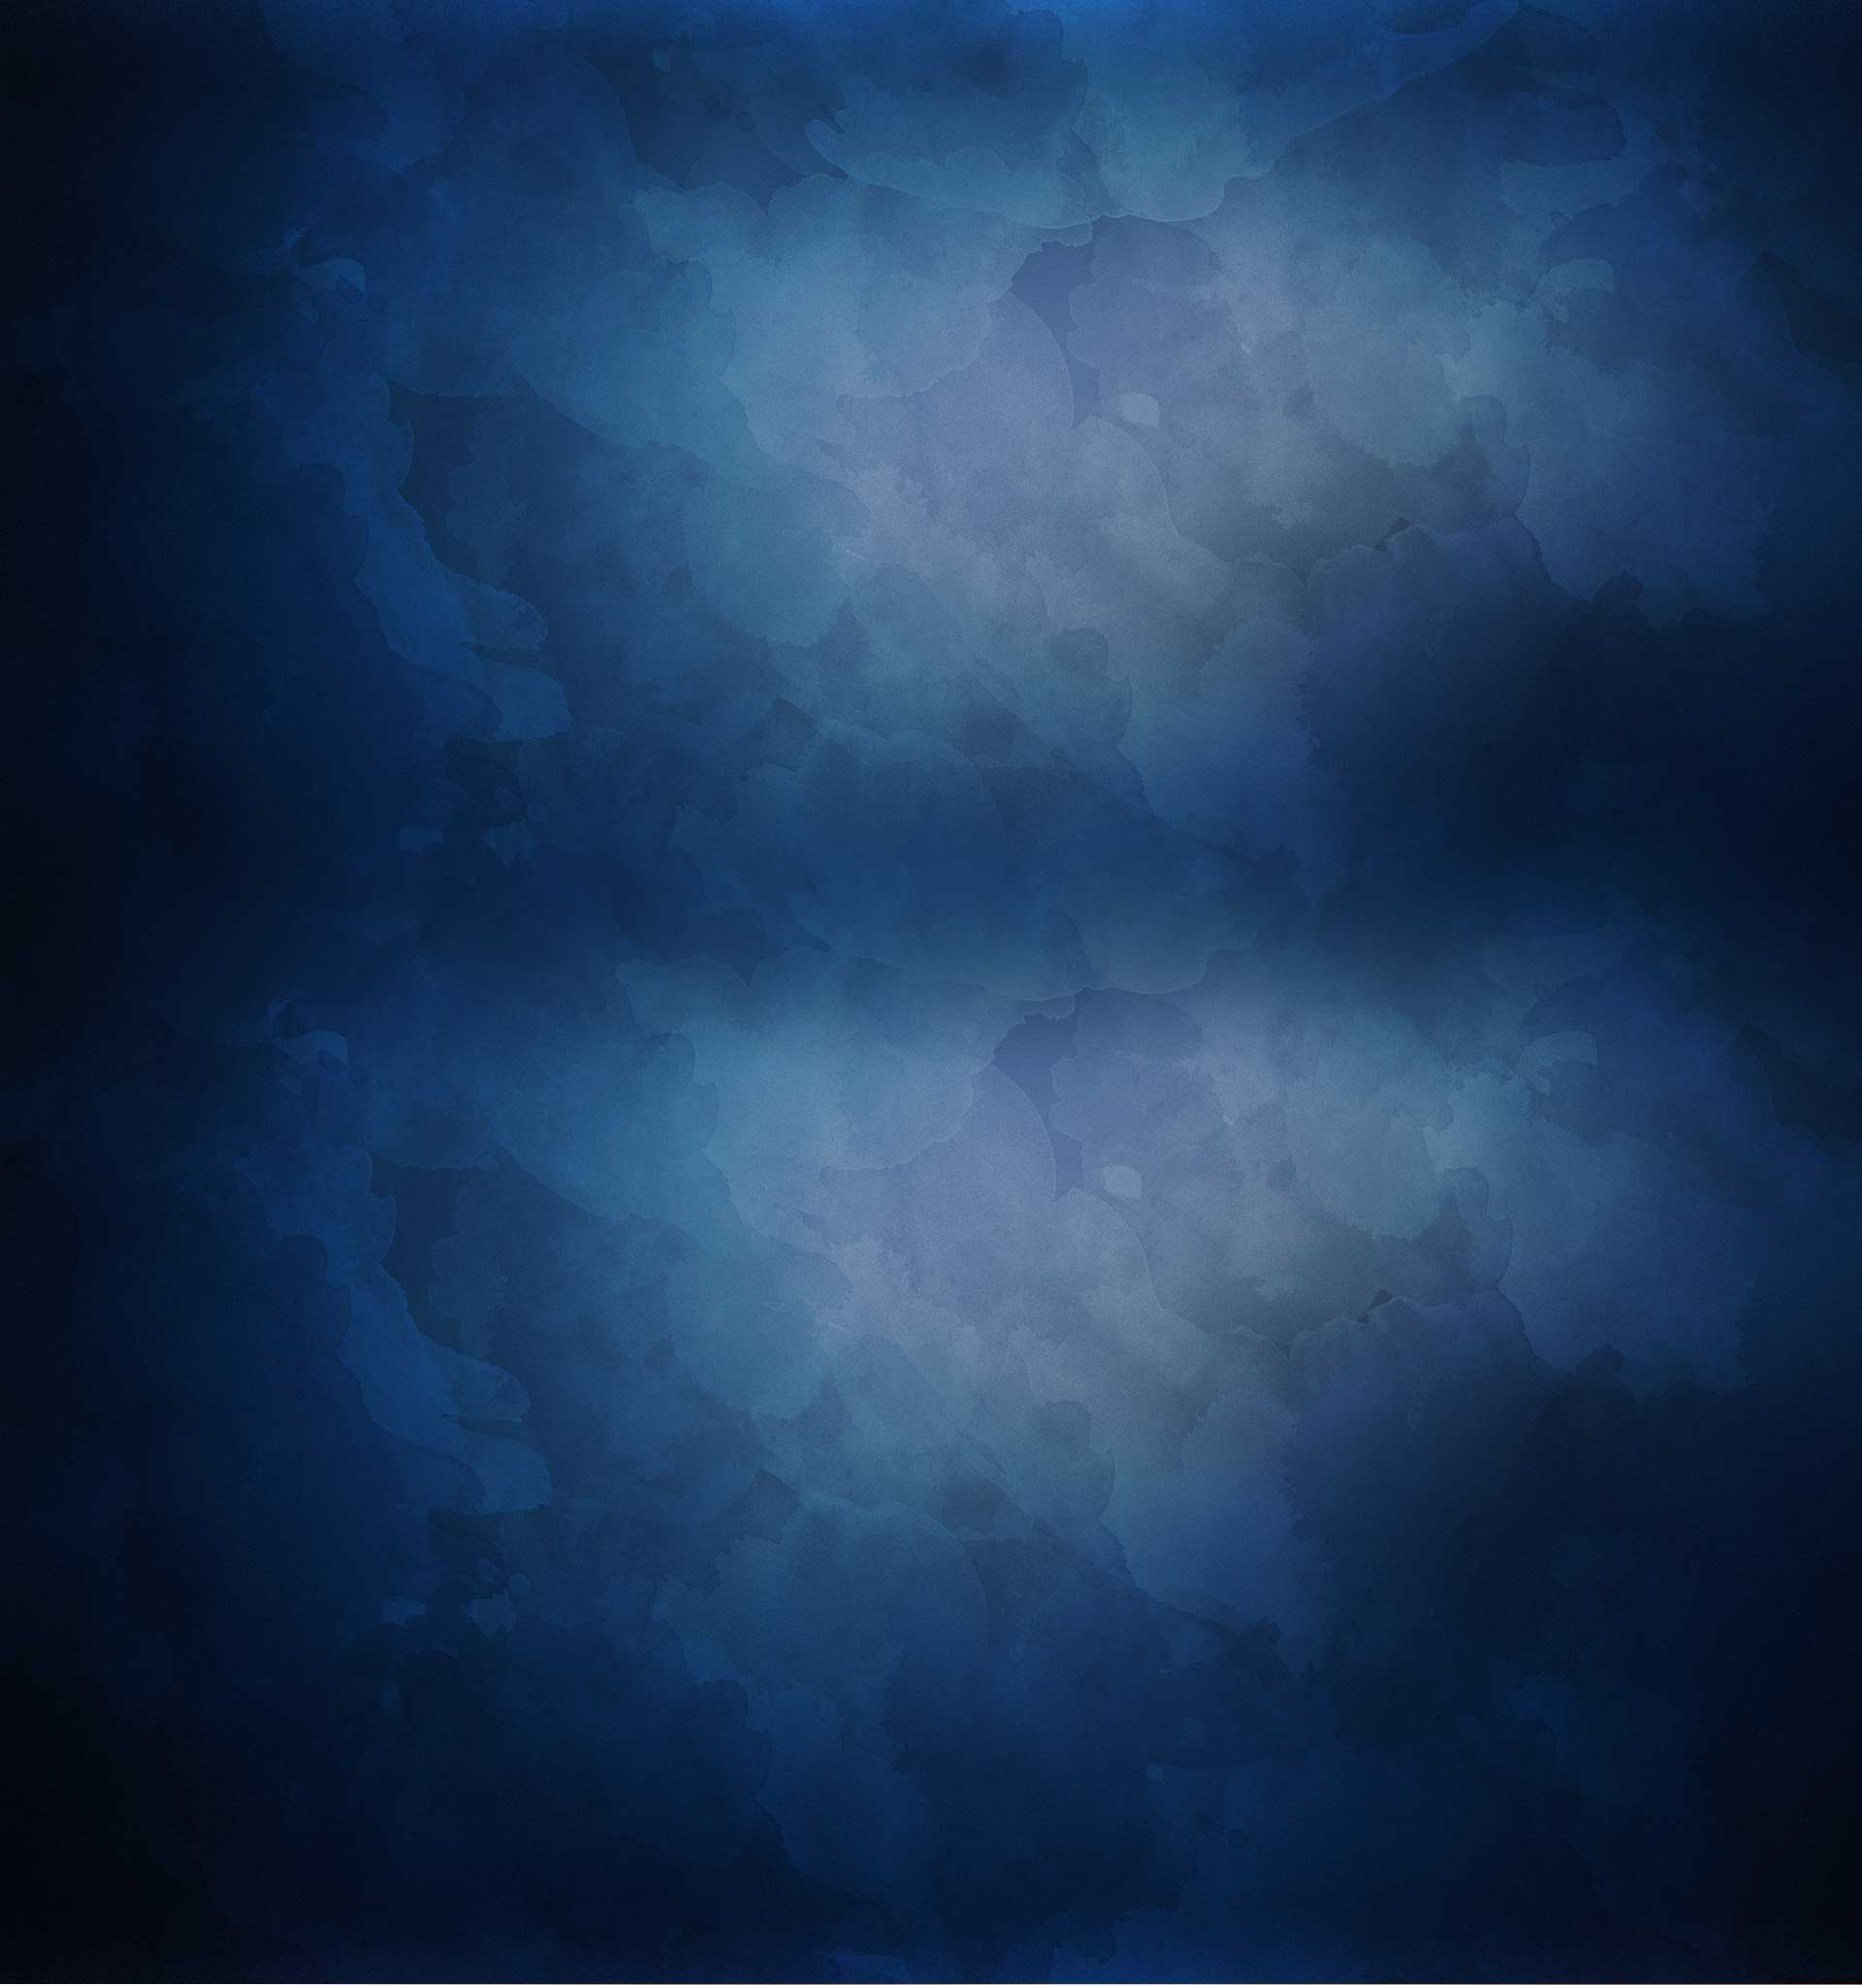
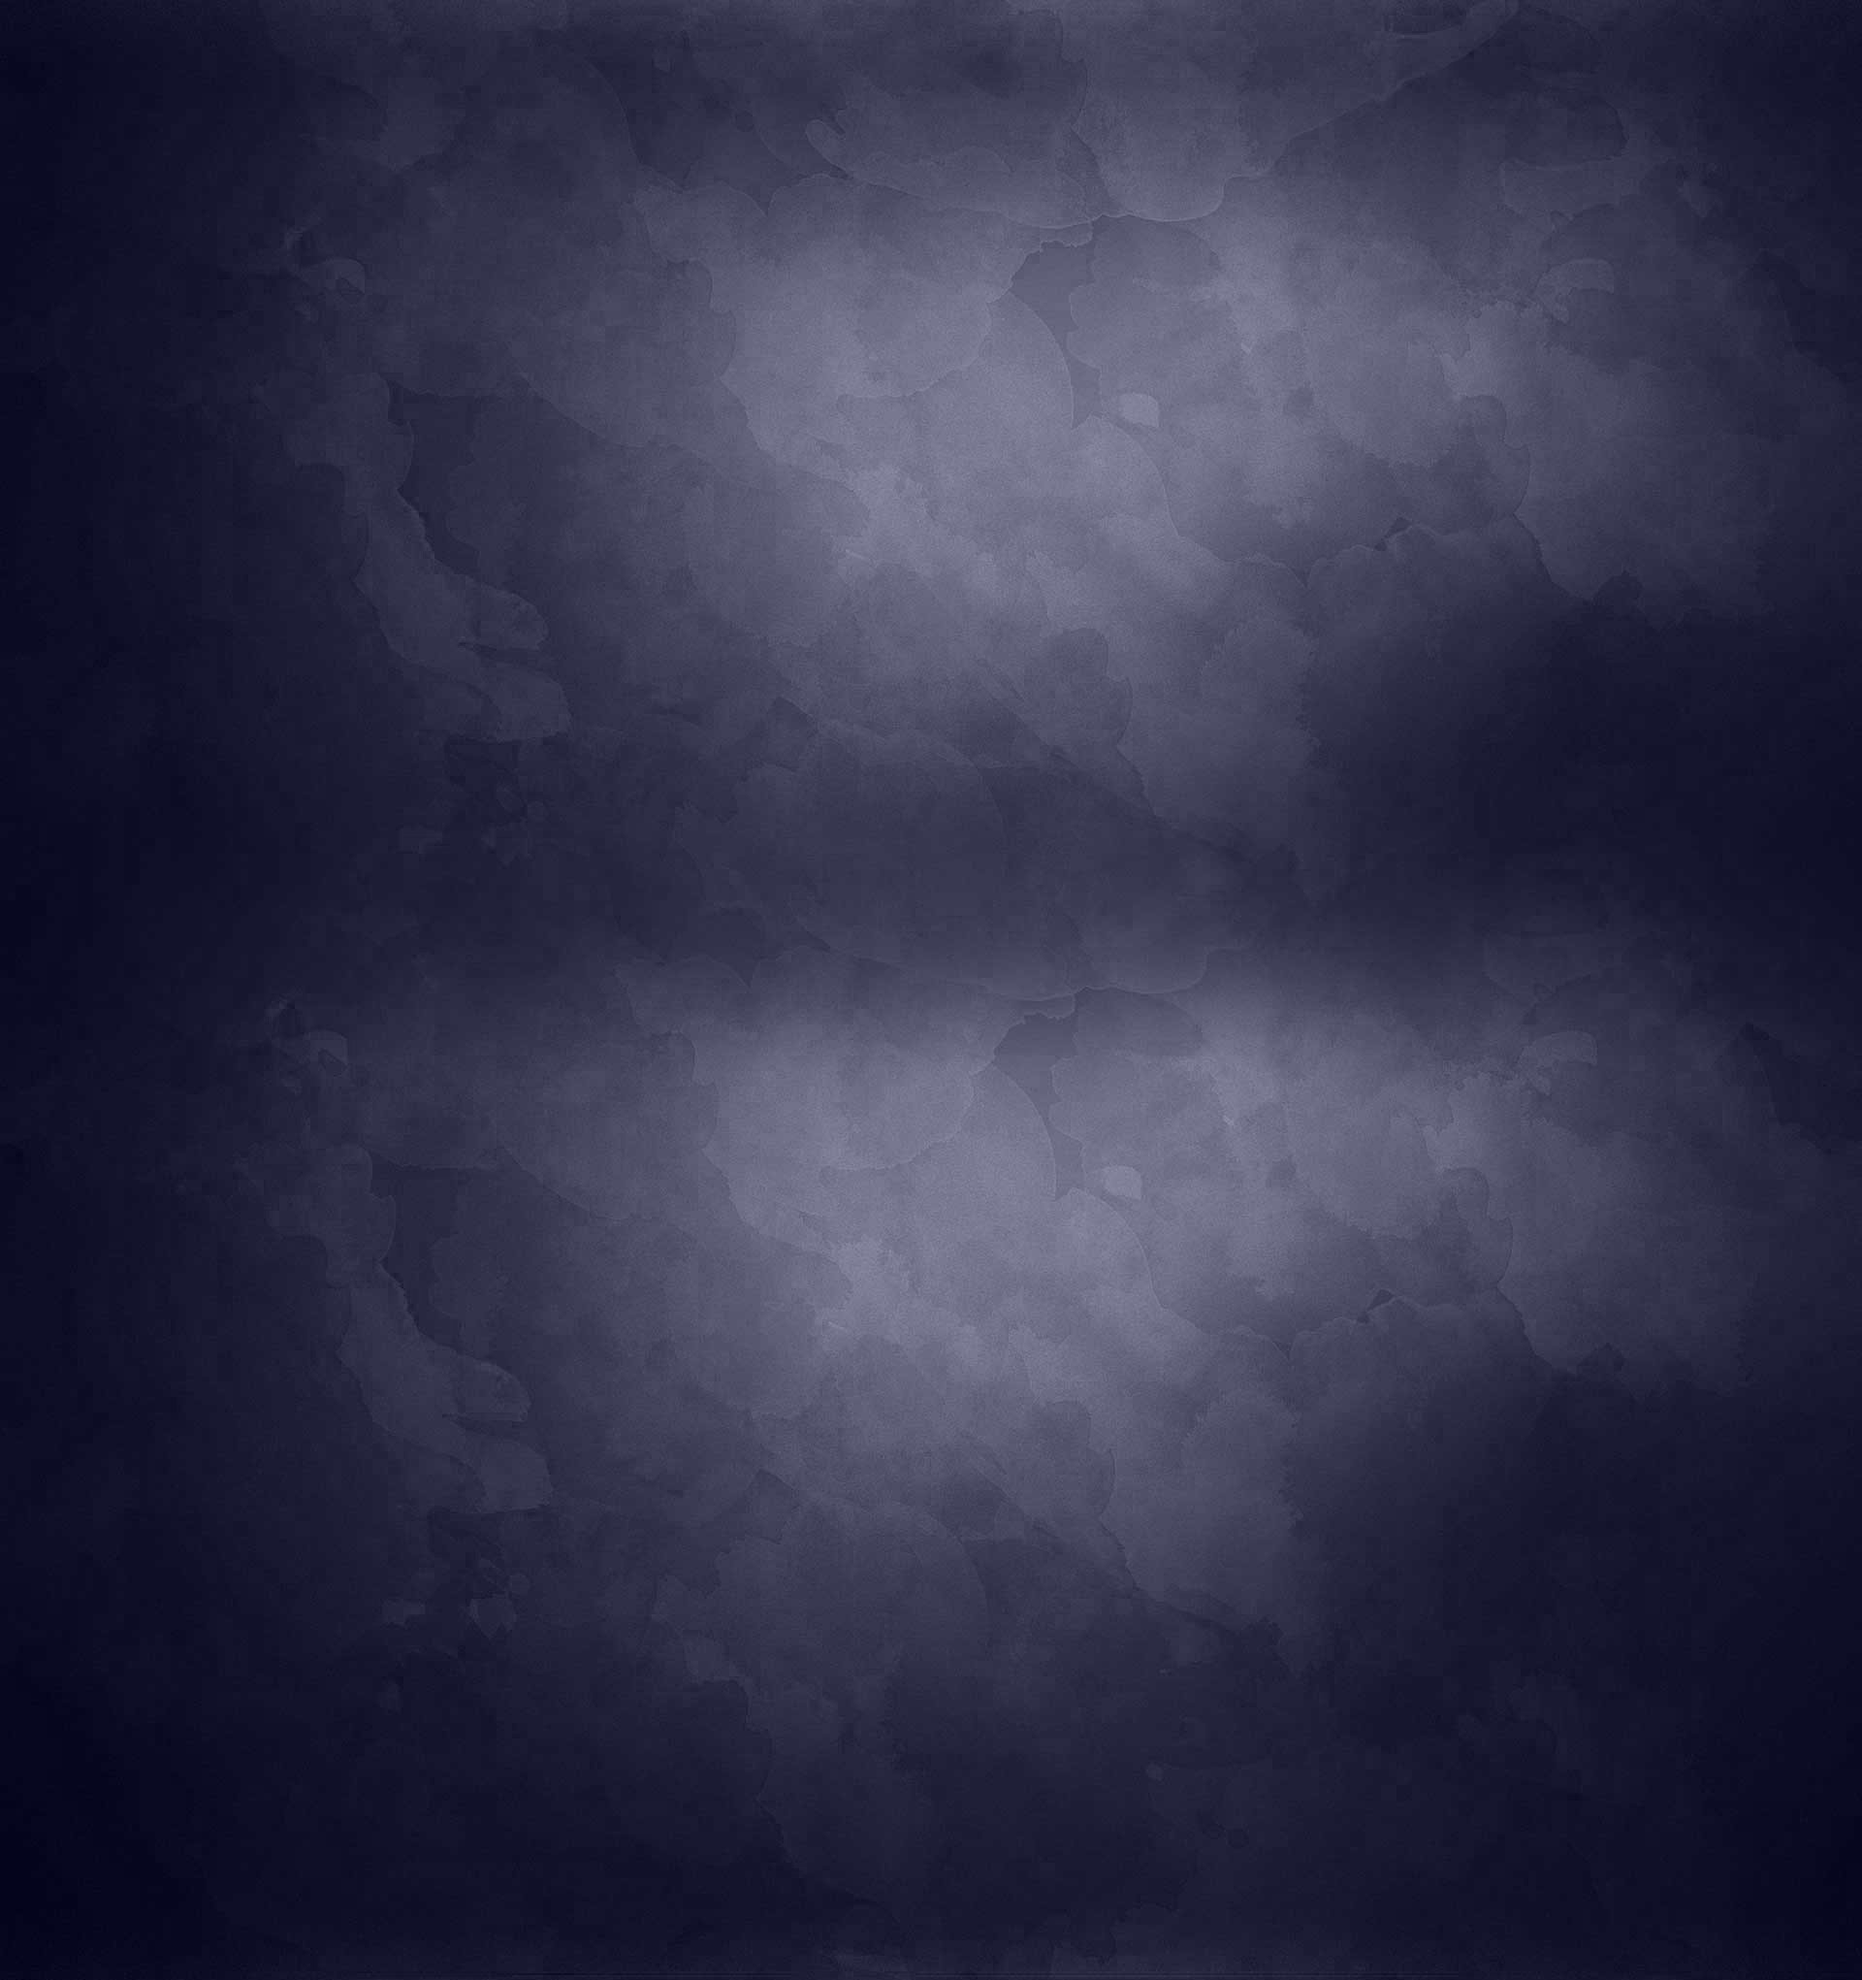
Improved loader style

diff --git a/index.html b/index.html
@@ -334,11 +334,14 @@ a {
     left: 0;
     width: 100%;
     height: 100%;
-    background: #30314c;
-    padding: 10px;
     display: block;
     font-family: "Roboto", sans-serif;
     font-weight: 400;
+    background: url(/static/img/backgrounds/1.jpg);
+    background-position: center center;
+    background-repeat: no-repeat;
+    background-attachment: fixed;
+    background-color: #30314c;
 }
 
 .startup-loader .startup-loader__container {
@@ -348,6 +351,7 @@ a {
     text-align: center;
     padding-top: 100px;
     font-size: 14px;
+    background: rgba(47, 47, 72, 0.6);
 }
 
 .startup-loader__message {
@@ -504,6 +508,7 @@ window.resetSettings = function() {
 function isWhiteSpace(coords) {
   var element = document.elementFromPoint(coords.x, coords.y);
   var whitespace = $(document).add('body, html, #app, #header-bg, #startup-loader, #critical-error, #left-bg, #right-bg, .startup-loader__container');
+
   return (whitespace.get().indexOf(element) > -1) ? true : false;
 }
 
@@ -511,7 +516,7 @@ function bootChecker() {
   if (typeof($) == undefined) return setTimeout(bootChecker, 1000)
 
   // If any of these randomly chosen coordinates is not a bottom layer element, then assume loading occurred properly
-  const isLoaded = !isWhiteSpace({ x: 100, y: 100 }) || !isWhiteSpace({ x: 200, y: 100 }) || !isWhiteSpace({ x: 300, y: 300 })
+  const isLoaded = !isWhiteSpace({ x: 50, y: 50 })
 
   if (isLoaded) {
     $('#startup-loader, #critical-error').hide()
